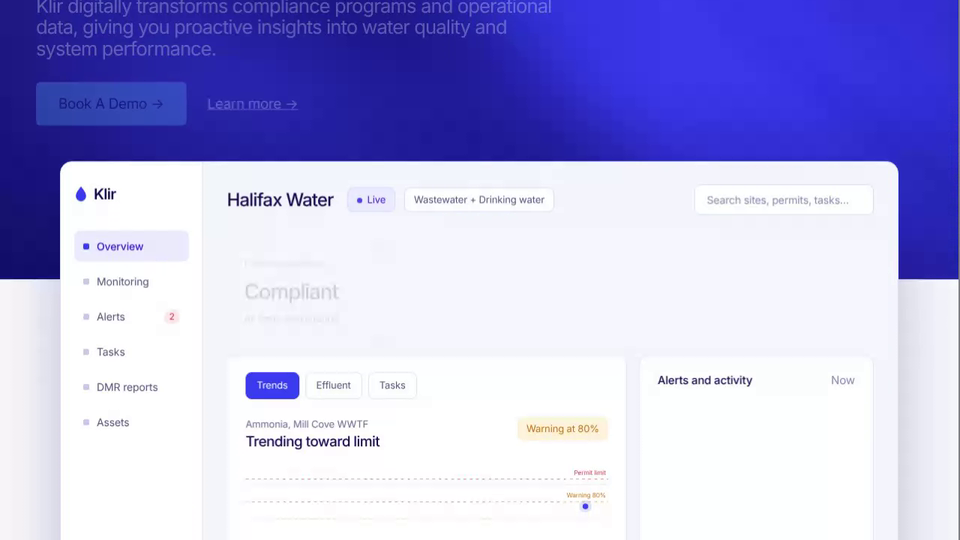
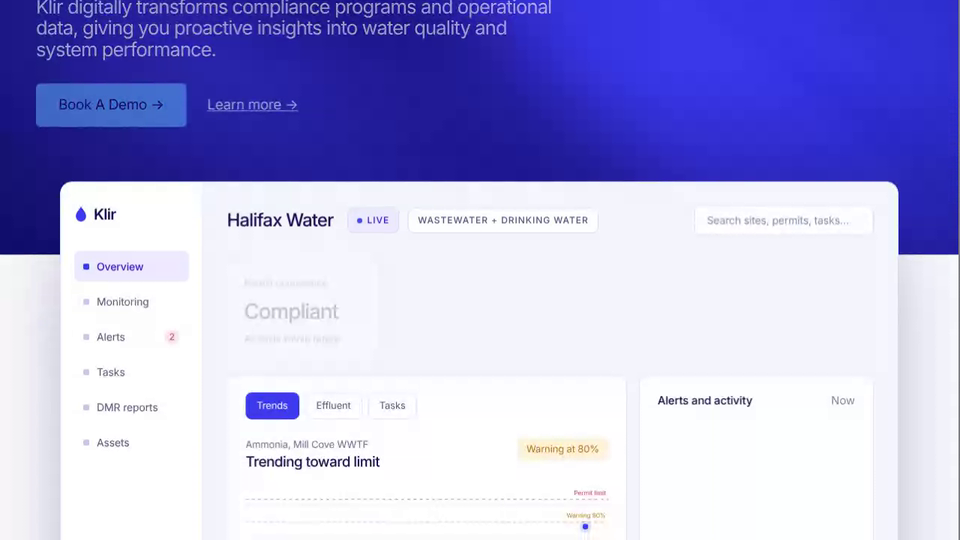
Klir Landing Page: all-caps status chips (#440)
* Add Klir Wayfinding: scroll-driven blue wayfinding line with waterdrop pin and curve marks

Claude-Session: https://claude.ai/code/session_01AHeBdxxJMjuAF9w67sWwW5

* Klir Wayfinding: Clio-style water hero, drop appears on scroll (white to blue), thinner curves, no dotted track

Claude-Session: https://claude.ai/code/session_01AHeBdxxJMjuAF9w67sWwW5

* Klir Wayfinding: TerraPower-style content with gooey hover images, 'Built for Water.' on one line

Claude-Session: https://claude.ai/code/session_01AHeBdxxJMjuAF9w67sWwW5

* Klir Wayfinding: white teardrop nodes on the line, no dot beside eyebrows

Claude-Session: https://claude.ai/code/session_01AHeBdxxJMjuAF9w67sWwW5

* Klir Wayfinding: customers section with the largest US municipal water agencies after the hero

Claude-Session: https://claude.ai/code/session_01AHeBdxxJMjuAF9w67sWwW5

* Klir Wayfinding: thin gradient wayfinding line with faded edges

Claude-Session: https://claude.ai/code/session_01AHeBdxxJMjuAF9w67sWwW5

* Rename to Klir Landing Page, nav arrows, remove line curves, thinner teardrop outline

Claude-Session: https://claude.ai/code/session_01AHeBdxxJMjuAF9w67sWwW5

* Klir Landing Page: Clio-style blue footer CTA, line fades at marked points, drop limited to the line

Claude-Session: https://claude.ai/code/session_01AHeBdxxJMjuAF9w67sWwW5

* Klir Landing Page: Halifax Water UI screen rising from the hero bottom on scroll, sky blue hero buttons
[…]

diff --git a/klir-wayfinding/index.html b/klir-wayfinding/index.html
@@ -107,7 +107,7 @@ footer p{font-size:clamp(18px,1.8vw,22px);letter-spacing:-.02em;max-width:30em;m
 .app li em{margin-left:auto;font-style:normal;font-size:12px;background:#fde7ea;color:#c23a4b;border-radius:10px;padding:1px 7px}
 .mn{padding:30px 32px 36px;display:grid;gap:26px}
 .top{display:flex;align-items:center;gap:12px}.top h3{font-size:24px;font-weight:500;letter-spacing:-.035em;margin-right:6px}
-.chip{border:1px solid #deddf3;background:#fff;border-radius:8px;padding:6px 12px;font-size:13px;color:#55547c}.chip.live{color:var(--indigo);background:#ecebff;border-color:#dcdaff}
+.chip{border:1px solid #deddf3;background:#fff;border-radius:8px;padding:7px 12px;font-size:12px;font-weight:500;text-transform:uppercase;letter-spacing:.08em;color:#55547c}.chip.live{color:var(--indigo);background:#ecebff;border-color:#dcdaff}
 .srch{margin-left:auto;background:#fff;border:1px solid #deddf3;border-radius:8px;padding:9px 16px;color:#8a89ad;width:240px}
 .ks{display:grid;grid-template-columns:repeat(4,1fr);gap:16px}
 .k{background:#fff;border:1px solid #e6e5f6;border-radius:12px;padding:20px 22px;display:grid;gap:6px}.k small{color:#6b6a93;font-size:13px}.k b{font-size:28px;font-weight:500;letter-spacing:-.04em}.k span{font-size:13px;color:#55547c}.k .gr{color:#1b8a57}.k .am{color:#b9791a}
@@ -191,7 +191,7 @@ footer p{font-size:clamp(18px,1.8vw,22px);letter-spacing:-.02em;max-width:30em;m
   <p class="lead">Municipal drinking water and wastewater utilities trust Klir to run their compliance programs and operational data in one place.</p>
   <a class="more" href="#demo">Read customer stories →</a>
   <div class="cust"><div class="tile"><b>NYC</b><span>Environmental Protection</span></div><div class="tile"><b>LADWP</b><span>Los Angeles</span></div><div class="tile"><b>MWD</b><span>Southern California</span></div><div class="tile"><b>Chicago</b><span>Water Management</span></div><div class="tile"><b>Philadelphia</b><span>Water Department</span></div><div class="tile"><b>Houston</b><span>Public Works</span></div><div class="tile"><b>DC Water</b><span>Washington, DC</span></div><div class="tile"><b>SFPUC</b><span>San Francisco</span></div>
-    <a class="tile feat goo" href="#demo"><img src="img/waves.jpg" alt=""><div class="fx"><em>Latest case study</em><div><b>Drinking water + wastewater</b><span>One compliance hub for every team</span></div><u>Read case study →</u></div></a>
+    <a class="tile feat goo" href="#demo"><img src="img/waves.jpg" alt=""><div class="ft"><em>Latest case study</em><div><b>Drinking water + wastewater</b><span>One compliance hub for every team</span></div><u>Read case study →</u></div></a>
   </div>
 </section>
 
@@ -230,7 +230,7 @@ footer p{font-size:clamp(18px,1.8vw,22px);letter-spacing:-.02em;max-width:30em;m
 
 </main>
 </div>
-<footer id="demo"><h2>Your water data, working together. See Klir in action.</h2><p>Book a demo and we'll walk you through compliance programs and operational data in one hub built for water.</p><div class="fcta"><a class="fbtn" href="#demo">Book A Demo</a><a class="flink" href="#demo">Learn more →</a></div></footer>
+<footer id="demo"><h2>Stay compliant with Klir</h2><p>Book a demo and we'll walk you through compliance programs and operational data in one hub built for water.</p><div class="fcta"><a class="fbtn" href="#demo">Book A Demo</a><a class="flink" href="#demo">Learn more →</a></div></footer>
 
 <script>
 const ticks=["Standardize and centralize your data","Capture information in bench sheets","Evaluate against limits","Receive alerts and notifications","Anticipate necessary changes early","Manage NPDES permit adherence","Generate accurate NetDMR reports in clicks","Manage industrial customers and enforce compliance"];
